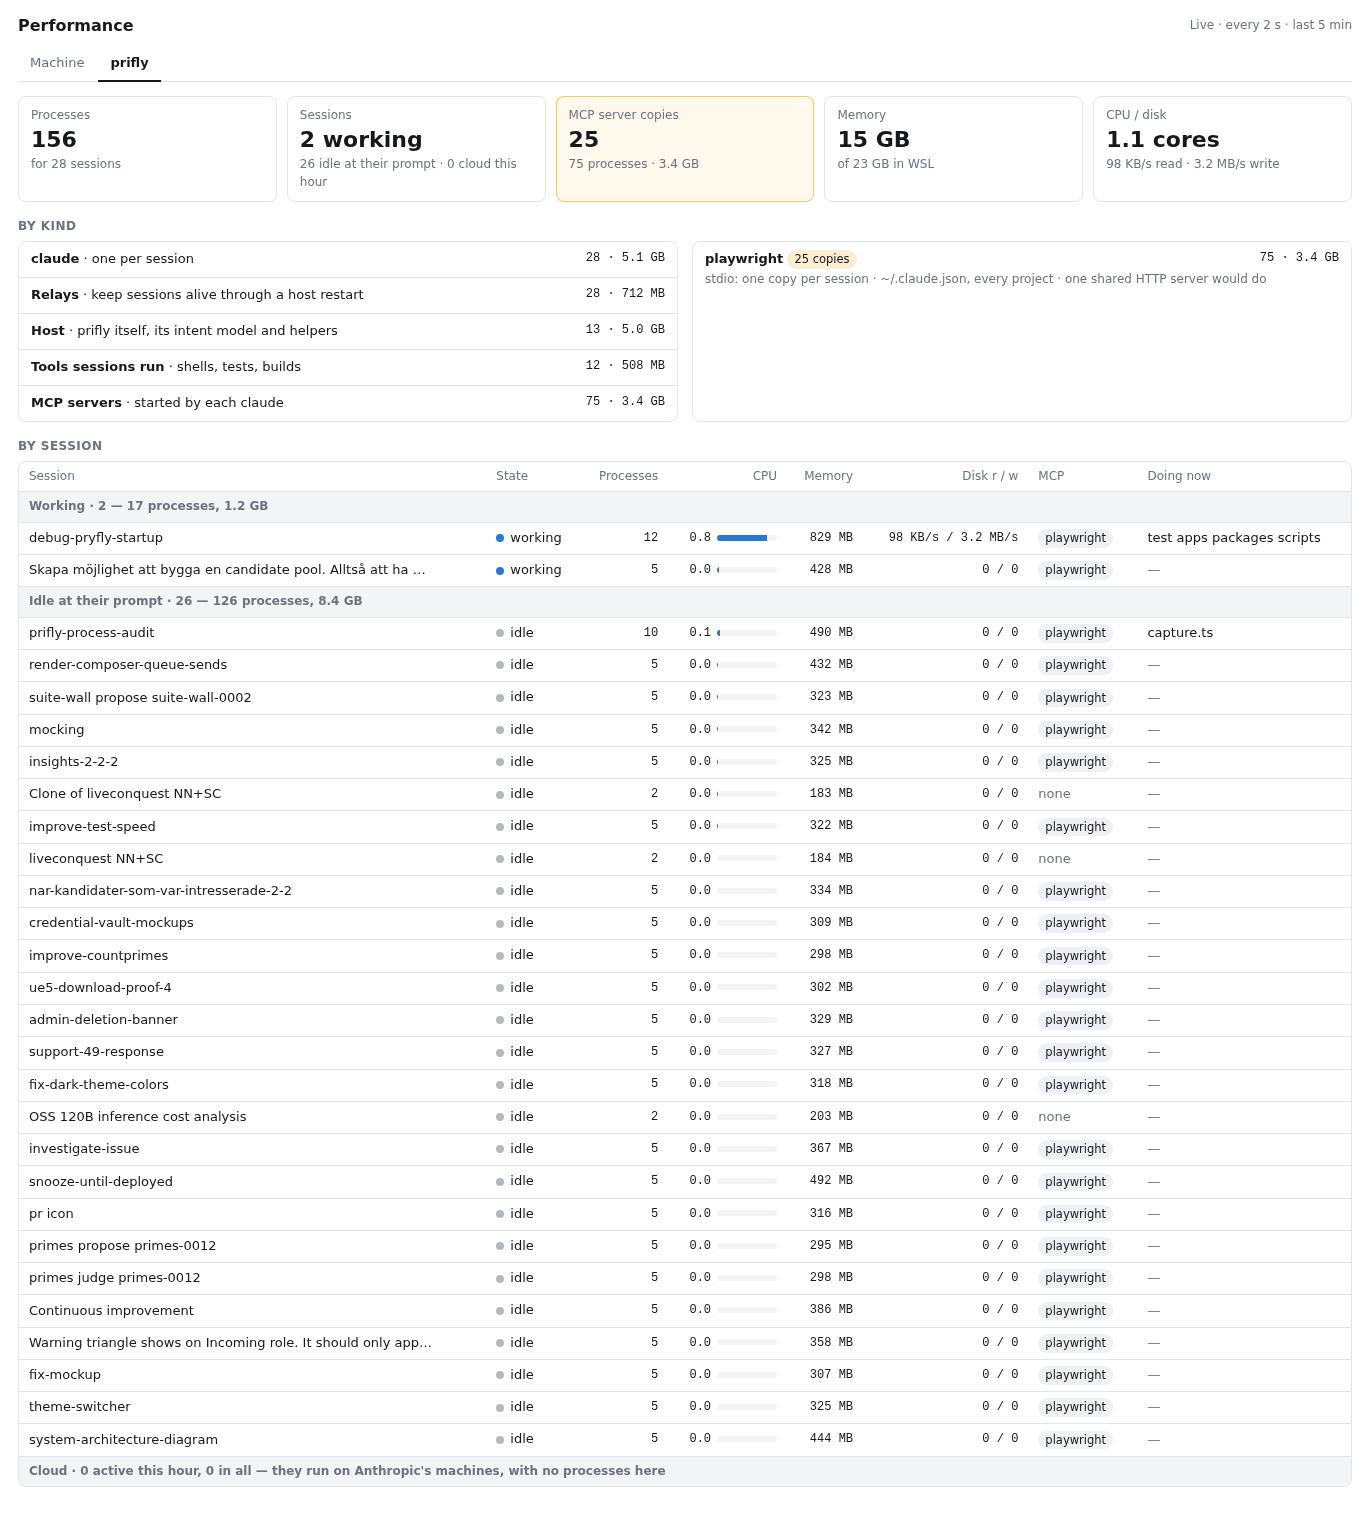
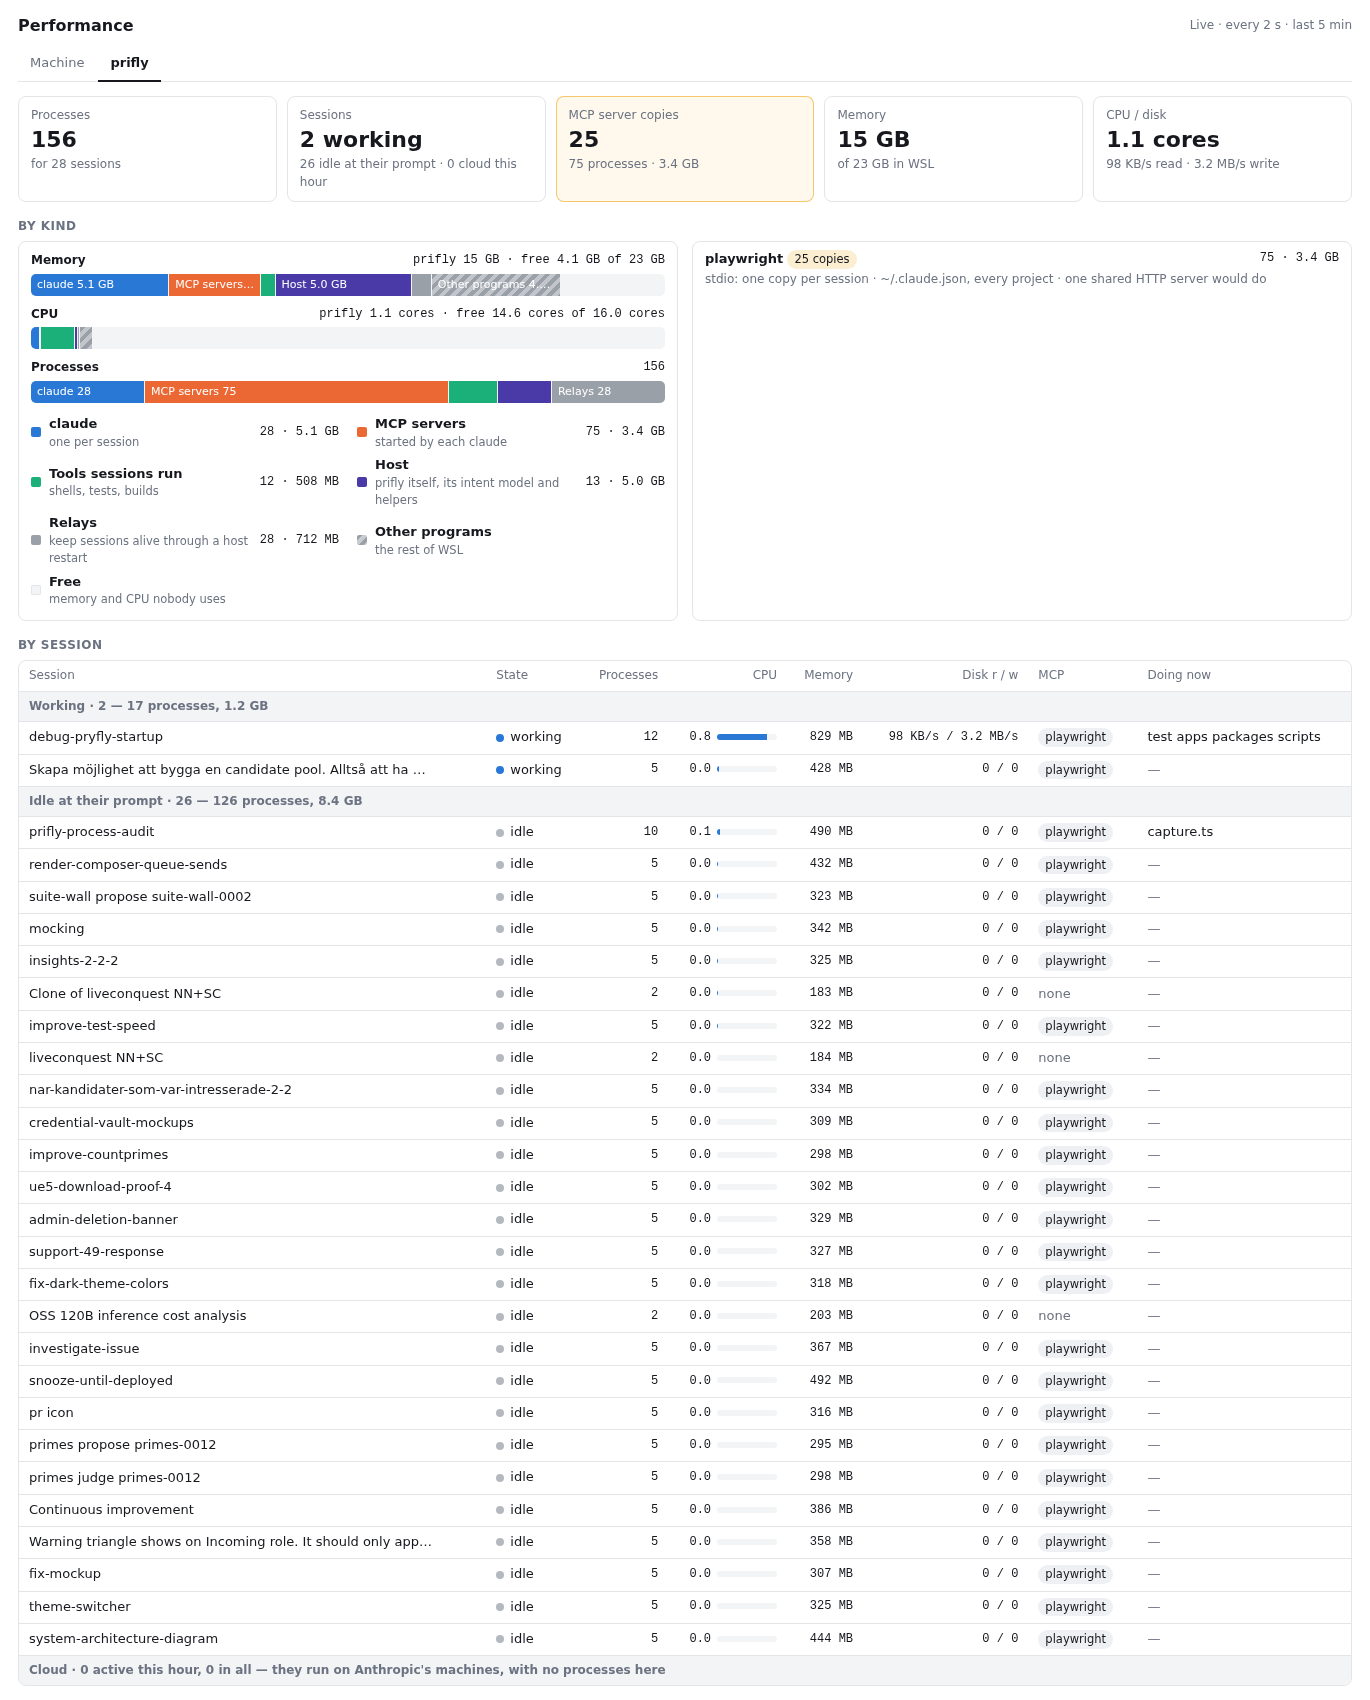
feat(panel): show by kind as stacked bars spanning the whole of wsl

diff --git a/panel/app.js b/panel/app.js
@@ -2,59 +2,10 @@
 // seconds while the window is visible; asking is also what tells the
 // extension the window is open, so it reads the process table only then.
 
-const $ = (id) => document.getElementById(id);
+import { $, bytes, cores, el, pct, rate, spark } from "./format.js";
 
 let last = null;
 let polling = null;
-
-function el(tag, attrs = {}, ...children) {
-  const node = document.createElement(tag);
-  for (const [key, value] of Object.entries(attrs)) {
-    if (key === "class") node.className = value;
-    else node.setAttribute(key, value);
-  }
-  for (const child of children) {
-    if (child !== null && child !== undefined && child !== false) node.append(child);
-  }
-  return node;
-}
-
-/** In 1024s, as Windows and `.wslconfig` count: a 24 GB limit reads 24 GB. */
-function bytes(n) {
-  const units = ["B", "KB", "MB", "GB", "TB"];
-  let value = n;
-  let unit = 0;
-  while (value >= 1000 && unit < units.length - 1) {
-    value /= 1024;
-    unit += 1;
-  }
-  const shown = value >= 100 || unit === 0 ? Math.round(value).toString() : value.toPrecision(2);
-  return `${shown} ${units[unit]}`;
-}
-
-const rate = (n) => (n < 1000 ? "0" : `${bytes(n)}/s`);
-const pct = (n) => `${n < 10 ? n.toFixed(1) : Math.round(n)}%`;
-const cores = (n) => (n < 0.05 ? "0" : `${n.toFixed(1)} cores`);
-
-/** A five-minute line of `values`, scaled to `max` (or to its own peak). */
-function spark(values, max) {
-  const svg = document.createElementNS("http://www.w3.org/2000/svg", "svg");
-  svg.setAttribute("class", "spark");
-  svg.setAttribute("viewBox", "0 0 132 28");
-  if (values.length < 2) return svg;
-  const top = max ?? Math.max(...values, 1);
-  const step = 132 / (values.length - 1);
-  const d = values
-    .map(
-      (v, i) =>
-        `${i === 0 ? "M" : "L"}${(i * step).toFixed(1)} ${(26 - (24 * Math.min(v, top)) / top).toFixed(1)}`,
-    )
-    .join(" ");
-  const path = document.createElementNS("http://www.w3.org/2000/svg", "path");
-  path.setAttribute("d", d);
-  svg.append(path);
-  return svg;
-}
 
 function metric(tone, name, main, small, line) {
   return el(
@@ -256,20 +207,95 @@ function line(title, count, how) {
   );
 }
 
+// In the order the bars stack them; each kind's colour is `--k-<key>` in style.css.
 const KINDS = [
   ["claude", "claude", "one per session"],
-  ["relay", "Relays", "keep sessions alive through a host restart"],
-  ["host", "Host", "prifly itself, its intent model and helpers"],
-  ["tools", "Tools sessions run", "shells, tests, builds"],
   ["mcp", "MCP servers", "started by each claude"],
+  ["tools", "Tools sessions run", "shells, tests, builds"],
+  ["host", "Host", "prifly itself, its intent model and helpers"],
+  ["relay", "Relays", "keep sessions alive through a host restart"],
 ];
 
-function drawKinds(report) {
-  $("kinds").replaceChildren(
+/** A segment wider than this share carries its name and value; narrower ones only on hover. */
+const LABEL_FROM = 9;
+
+/** One bar: `field` of every kind, stacked in proportion. */
+function segment(key, name, value, whole, format) {
+  const share = whole > 0 ? (100 * value) / whole : 0;
+  const node = el("div", {
+    class: `seg k-${key}`,
+    style: `width:${share}%`,
+    title: `${name}: ${format(value)}`,
+  });
+  if (share > LABEL_FROM) node.append(el("span", {}, `${name} ${format(value)}`));
+  return node;
+}
+
+/**
+ * One bar: `field` of every kind, stacked in proportion. With `machine` — what
+ * the rest of WSL uses and what is free — the bar is the whole of WSL, so
+ * prifly's share of it shows; the free part is the empty track.
+ */
+function stack(report, label, field, format, machine) {
+  const prifly = KINDS.reduce((total, [key]) => total + report.kinds[key][field], 0);
+  const whole = machine === undefined ? prifly : machine.total;
+  const segments = KINDS.map(([key, name]) =>
+    segment(key, name, report.kinds[key][field], whole, format),
+  );
+  if (machine !== undefined) {
+    const other = Math.max(0, machine.used - prifly);
+    segments.push(segment("other", "Other programs", other, whole, format));
+  }
+  const total =
+    machine === undefined
+      ? format(prifly)
+      : `prifly ${format(prifly)} · free ${format(Math.max(0, machine.total - Math.max(machine.used, prifly)))} of ${format(machine.total)}`;
+  return el(
+    "div",
+    { class: "stackrow" },
+    el("div", { class: "stacklabel" }, el("b", {}, label), el("span", { class: "num" }, total)),
+    el("div", { class: "stack" }, ...segments),
+  );
+}
+
+function drawKinds(report, state) {
+  const legend = el(
+    "div",
+    { class: "legend" },
     ...KINDS.map(([key, name, how]) => {
       const u = report.kinds[key];
-      return line([el("b", {}, name), ` · ${how}`], `${u.processes} · ${bytes(u.rss)}`);
+      return el(
+        "div",
+        { class: "lg" },
+        el("i", { class: `k-${key}` }),
+        el("span", {}, el("b", {}, name), el("small", {}, how)),
+        el("span", { class: "num" }, `${u.processes} · ${bytes(u.rss)}`),
+      );
     }),
+    el(
+      "div",
+      { class: "lg" },
+      el("i", { class: "k-other" }),
+      el("span", {}, el("b", {}, "Other programs"), el("small", {}, "the rest of WSL")),
+      el("span"),
+    ),
+    el(
+      "div",
+      { class: "lg" },
+      el("i", { class: "k-free" }),
+      el("span", {}, el("b", {}, "Free"), el("small", {}, "memory and CPU nobody uses")),
+      el("span"),
+    ),
+  );
+  const s = state.linux.sample;
+  // Resident memory overlaps a little (shared pages), so prifly may sum past "used": capped in `stack`.
+  const memory = { total: s.memTotal, used: s.memTotal - s.memAvailable };
+  const cpu = { total: s.cores, used: (s.busy / 100) * s.cores };
+  $("kinds").replaceChildren(
+    stack(report, "Memory", "rss", bytes, memory),
+    stack(report, "CPU", "cpu", (n) => `${n.toFixed(1)} cores`, cpu),
+    stack(report, "Processes", "processes", String),
+    legend,
   );
 }
 
@@ -369,7 +395,7 @@ function drawPrifly(state) {
   const report = state.prifly;
   if (report === null) return;
   drawTiles(report, state);
-  drawKinds(report);
+  drawKinds(report, state);
   drawMcp(report);
   drawSessions(report, state);
 }

diff --git a/panel/style.css b/panel/style.css
@@ -16,6 +16,11 @@
   --critical: #e0443a;
   --neutral: #b4b8bf;
   --work: #2a78d6;
+  --k-claude: #2a78d6;
+  --k-mcp: #eb6834;
+  --k-tools: #1baf7a;
+  --k-host: #4a3aa7;
+  --k-relay: #9aa0a8;
 }
 :root.dark {
   color-scheme: dark;
@@ -31,6 +36,11 @@
   --critical: #e5584f;
   --neutral: #5d636d;
   --work: #3987e5;
+  --k-claude: #3987e5;
+  --k-mcp: #d95926;
+  --k-tools: #199e70;
+  --k-host: #6b5bd0;
+  --k-relay: #5d636d;
 }
 * {
   box-sizing: border-box;
@@ -311,6 +321,84 @@ tr.group td {
 }
 .line:last-child {
   border-bottom: 0;
+}
+.stackrow {
+  padding: 10px 12px 0;
+}
+.stacklabel {
+  display: flex;
+  justify-content: space-between;
+  font-size: 12px;
+  margin-bottom: 4px;
+}
+.stack {
+  display: flex;
+  gap: 1px;
+  height: 22px;
+  border-radius: 5px;
+  overflow: hidden;
+  background: var(--muted);
+}
+.seg {
+  display: flex;
+  align-items: center;
+  color: #fff;
+  font-size: 11px;
+  white-space: nowrap;
+  overflow: hidden;
+}
+.seg span {
+  padding: 0 6px;
+  overflow: hidden;
+  text-overflow: ellipsis;
+}
+.k-claude {
+  background: var(--k-claude);
+}
+.k-mcp {
+  background: var(--k-mcp);
+}
+.k-tools {
+  background: var(--k-tools);
+}
+.k-host {
+  background: var(--k-host);
+}
+.k-relay {
+  background: var(--k-relay);
+}
+.k-other {
+  background: repeating-linear-gradient(
+    135deg,
+    var(--k-relay) 0 4px,
+    color-mix(in srgb, var(--k-relay) 55%, transparent) 4px 8px
+  );
+}
+.k-free {
+  background: var(--muted);
+  box-shadow: inset 0 0 0 1px var(--border);
+}
+.legend {
+  display: grid;
+  grid-template-columns: repeat(auto-fit, minmax(260px, 1fr));
+  gap: 6px 18px;
+  padding: 12px;
+}
+.lg {
+  display: grid;
+  grid-template-columns: 10px 1fr auto;
+  gap: 8px;
+  align-items: center;
+}
+.lg i {
+  width: 10px;
+  height: 10px;
+  border-radius: 2px;
+}
+.lg small {
+  display: block;
+  color: var(--muted-fg);
+  font-size: 11.5px;
 }
 .line .how {
   color: var(--muted-fg);

diff --git a/panel/format.js b/panel/format.js
@@ -1,0 +1,52 @@
+// How the Performance window writes numbers and builds its elements.
+
+export const $ = (id) => document.getElementById(id);
+
+export function el(tag, attrs = {}, ...children) {
+  const node = document.createElement(tag);
+  for (const [key, value] of Object.entries(attrs)) {
+    if (key === "class") node.className = value;
+    else node.setAttribute(key, value);
+  }
+  for (const child of children) {
+    if (child !== null && child !== undefined && child !== false) node.append(child);
+  }
+  return node;
+}
+
+/** In 1024s, as Windows and `.wslconfig` count: a 24 GB limit reads 24 GB. */
+export function bytes(n) {
+  const units = ["B", "KB", "MB", "GB", "TB"];
+  let value = n;
+  let unit = 0;
+  while (value >= 1000 && unit < units.length - 1) {
+    value /= 1024;
+    unit += 1;
+  }
+  const shown = value >= 100 || unit === 0 ? Math.round(value).toString() : value.toPrecision(2);
+  return `${shown} ${units[unit]}`;
+}
+
+export const rate = (n) => (n < 1000 ? "0" : `${bytes(n)}/s`);
+export const pct = (n) => `${n < 10 ? n.toFixed(1) : Math.round(n)}%`;
+export const cores = (n) => (n < 0.05 ? "0" : `${n.toFixed(1)} cores`);
+
+/** A five-minute line of `values`, scaled to `max` (or to its own peak). */
+export function spark(values, max) {
+  const svg = document.createElementNS("http://www.w3.org/2000/svg", "svg");
+  svg.setAttribute("class", "spark");
+  svg.setAttribute("viewBox", "0 0 132 28");
+  if (values.length < 2) return svg;
+  const top = max ?? Math.max(...values, 1);
+  const step = 132 / (values.length - 1);
+  const d = values
+    .map(
+      (v, i) =>
+        `${i === 0 ? "M" : "L"}${(i * step).toFixed(1)} ${(26 - (24 * Math.min(v, top)) / top).toFixed(1)}`,
+    )
+    .join(" ");
+  const path = document.createElementNS("http://www.w3.org/2000/svg", "path");
+  path.setAttribute("d", d);
+  svg.append(path);
+  return svg;
+}

diff --git a/panel/index.html b/panel/index.html
@@ -72,6 +72,6 @@
         </div>
       </section>
     </div>
-    <script src="app.js"></script>
+    <script type="module" src="app.js"></script>
   </body>
 </html>
